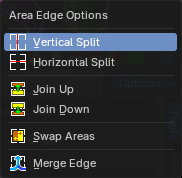
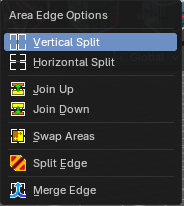
Document Split Edge in the Area Edge Options menu (#1833)
* Docs 2.0: document Split Edge in the Area Edge Options menu

* Docs 2.0: tidy Area Edge Options intro

---------

Changed region(s): [[0.0, 0.0, 1.0, 1.0], [0.1648, 0.5899, 0.522, 0.7022], [0.0, 0.0, 0.0275, 0.0281]]

diff --git a/docs2/content/editors/introduction.md b/docs2/content/editors/introduction.md
@@ -79,7 +79,7 @@ Closes the editor.
 
 ![Area Edge Options](/docs2/images/editors/introduction/area-options.png)
 
-When you right click at a border of an editor, the Area Edge Options menu opens. It splits, joins, swaps and merges editors.
+When you right click at a border of an editor, the Area Edge Options menu opens. It splits, joins and swaps editors, and it splits or merges their borders.
 
 ### Vertical Split
 
@@ -97,8 +97,11 @@ Join the two editors that share the border into one. There is one entry for each
 
 Swaps the content of the editors that shares the border.
 
-### Merge Edge
+### Split Edge
 
+Splits an area edge at the position where you right clicked. It is the inverse of **Merge Edge**. Both editors that share the border are cut at the cursor, at a right angle to the border. This recreates a junction, so you can move the two halves of the border separately again. Use it after a Merge Edge, or any time one long border should become two. The entry shows up on every border between two editors.
+
+### Merge Edge
 Merges aligned area edges into one straight edge. This entry has its own icon and only shows up when the border you clicked lines up with another border, for example where four editors meet at a cross. After the merge, the edge moves as one piece.
 
 ## Editor Type menu
